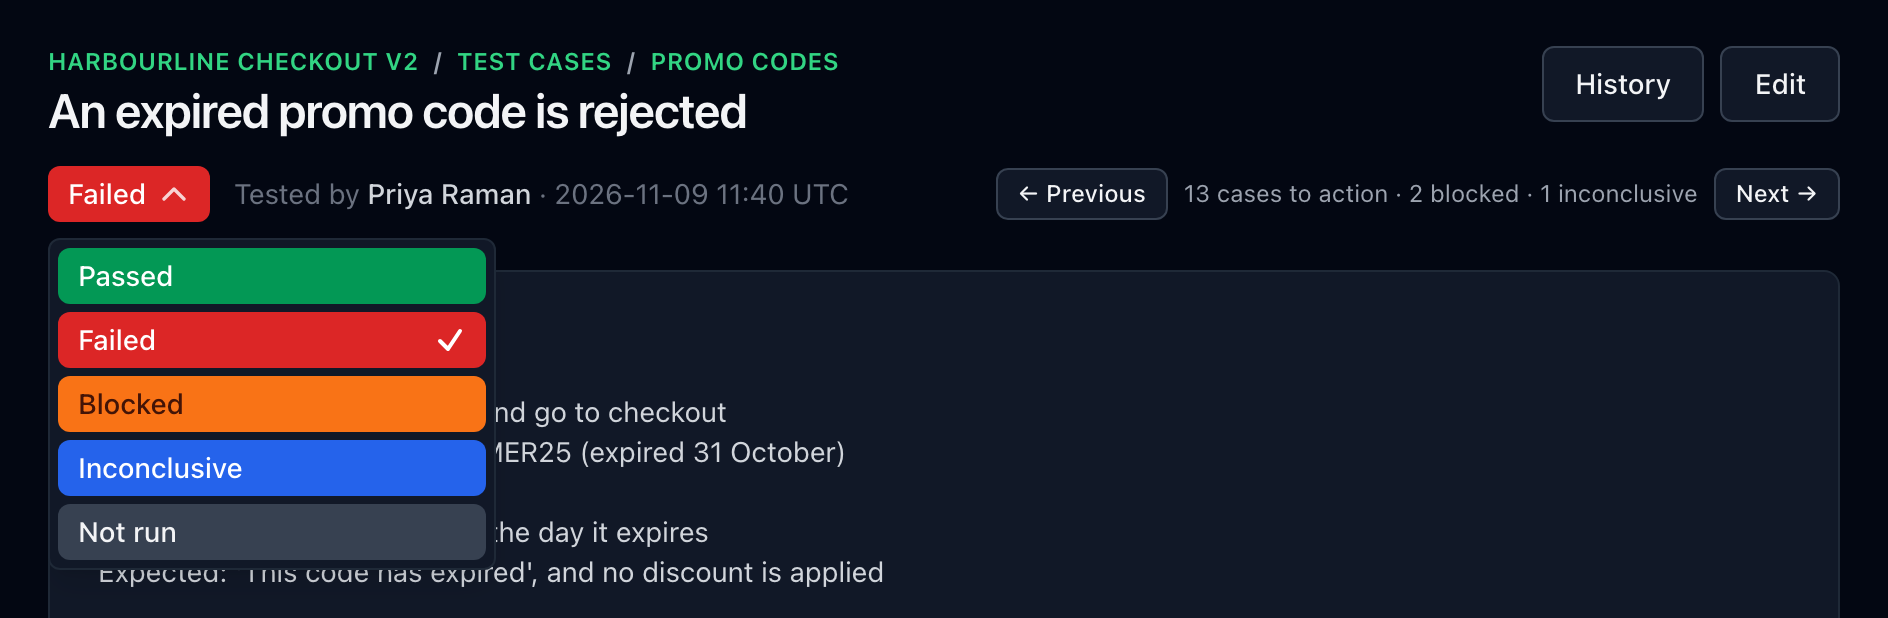
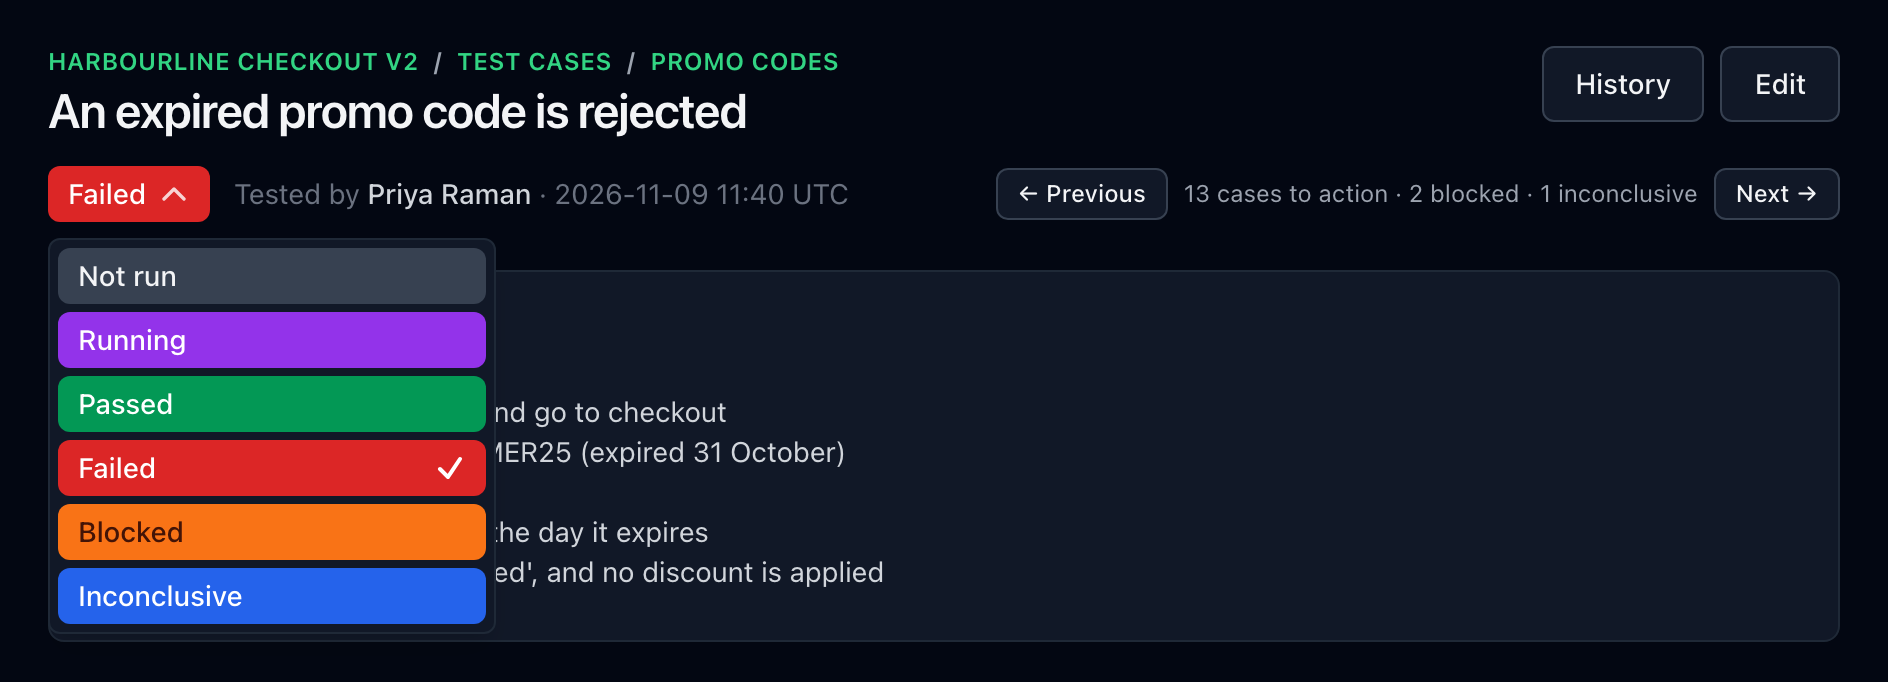
Added new "running" status to support multi-qa projects - appears in front of passed/failed when a test hasn't been ran. - when a test case is "running", it shows who is running it. - mark as passed/failed remain as options when a test case is "running"

diff --git a/src/QaTracker.Web/Styles/app.css b/src/QaTracker.Web/Styles/app.css
@@ -96,6 +96,11 @@
     @apply btn border border-transparent bg-red-600 text-white hover:bg-red-700 dark:text-white;
   }
 
+  /* The test case page's "Mark as running" quick button — the Running result's purple. */
+  .btn-purple {
+    @apply btn border border-transparent bg-purple-600 text-white hover:bg-purple-700 dark:text-white;
+  }
+
   /* Form footer set (FormActions.razor): Save = btn-primary (the only green fill), Cancel =
      btn-outline, Delete = btn-danger-outline (the only red). Same size, radius and type as .btn. */
   .btn-outline {
@@ -327,6 +332,10 @@
     @apply bg-orange-500 text-orange-950;
   }
 
+  .chip-purple {
+    @apply bg-purple-600 text-white;
+  }
+
   /* --- Side navigation ----------------------------------------------- */
   .nav-side {
     @apply flex items-center gap-2 rounded-md px-3 py-2 font-medium text-gray-600 no-underline
@@ -381,6 +390,7 @@
   .timeline-orange::before { @apply bg-orange-500; }
   .timeline-amber::before { @apply bg-amber-400; }
   .timeline-blue::before { @apply bg-blue-600; }
+  .timeline-purple::before { @apply bg-purple-600; }
 
   .timeline-when {
     @apply block text-xs text-gray-500 dark:text-gray-400;

diff --git a/src/QaTracker.Web/TestCases/TestCaseListFilter.cs b/src/QaTracker.Web/TestCases/TestCaseListFilter.cs
@@ -7,7 +7,7 @@ public enum TestCaseListFilter
     /// <summary>Every test case. The default.</summary>
     All = 0,
 
-    /// <summary>Still needs work: Not run, Failed or Blocked. Excludes Passed and Inconclusive
+    /// <summary>Still needs work: Not run, Running, Failed or Blocked. Excludes Passed and Inconclusive
     /// (the latter is waiting on business feedback rather than on testing).</summary>
     Outstanding = 1,
 
@@ -16,6 +16,7 @@ public enum TestCaseListFilter
     Blocked = 4,
     Inconclusive = 5,
     NotRun = 6,
+    Running = 7,
 }
 
 public static class TestCaseListFilters
@@ -25,6 +26,7 @@ public static class TestCaseListFilters
     [
         TestCaseListFilter.All,
         TestCaseListFilter.Outstanding,
+        TestCaseListFilter.Running,
         TestCaseListFilter.Passed,
         TestCaseListFilter.Failed,
         TestCaseListFilter.Blocked,
@@ -41,25 +43,27 @@ public static class TestCaseListFilters
         TestCaseListFilter.Blocked => TestCaseDisplay.ResultLabel(TestResult.Blocked),
         TestCaseListFilter.Inconclusive => TestCaseDisplay.ResultLabel(TestResult.Inconclusive),
         TestCaseListFilter.NotRun => TestCaseDisplay.ResultLabel(TestResult.NotRun),
+        TestCaseListFilter.Running => TestCaseDisplay.ResultLabel(TestResult.Running),
         _ => filter.ToString(),
     };
 
     /// <summary>A short hint shown beside the option, for the grouped filters.</summary>
     public static string? Hint(TestCaseListFilter filter) => filter switch
     {
-        TestCaseListFilter.Outstanding => "Not run, failed or blocked",
+        TestCaseListFilter.Outstanding => "Not run, running, failed or blocked",
         _ => null,
     };
 
     public static bool Matches(this TestCaseListFilter filter, TestResult result) => filter switch
     {
         TestCaseListFilter.All => true,
-        TestCaseListFilter.Outstanding => result is TestResult.NotRun or TestResult.Failed or TestResult.Blocked,
+        TestCaseListFilter.Outstanding => result is TestResult.NotRun or TestResult.Running or TestResult.Failed or TestResult.Blocked,
         TestCaseListFilter.Passed => result == TestResult.Passed,
         TestCaseListFilter.Failed => result == TestResult.Failed,
         TestCaseListFilter.Blocked => result == TestResult.Blocked,
         TestCaseListFilter.Inconclusive => result == TestResult.Inconclusive,
         TestCaseListFilter.NotRun => result == TestResult.NotRun,
+        TestCaseListFilter.Running => result == TestResult.Running,
         _ => true,
     };
 }

diff --git a/tests/QaTracker.E2ETests/TestCaseTests.cs b/tests/QaTracker.E2ETests/TestCaseTests.cs
@@ -128,4 +128,34 @@ public class TestCaseTests : E2ETestBase
         await Expect(Page).ToHaveURLAsync(oldUrl);
         await Expect(Page.GetByRole(AriaRole.Heading, new() { Name = scenario })).ToBeVisibleAsync();
     }
+
+    [Test]
+    public async Task Mark_as_running_comes_first_then_pass_or_fail_finishes_the_run()
+    {
+        var token = Guid.NewGuid().ToString("N")[..8];
+        var dashboardUrl = await CreateProjectAsync($"E2E running {token}");
+        var caseUrl = (await CreateScopeWithCasesAsync(dashboardUrl, $"Scope {token}", $"Run me {token}"))[0];
+        await Page.GotoAsync(caseUrl);
+
+        var result = Page.Locator("summary[aria-label='Change result']");
+        var quick = Page.Locator("form[action$='/result'] button.btn-sm");
+
+        // Not run: Mark as running first, then passed / failed.
+        await Expect(quick).ToHaveTextAsync(["Mark as running", "Mark as passed", "Mark as failed"]);
+        await Page.GetByRole(AriaRole.Button, new() { Name = "Mark as running" }).ClickAsync();
+        await Expect(result).ToContainTextAsync("Running");
+        await Expect(result).ToHaveClassAsync(new Regex("chip-purple"));
+        await Expect(Page.Locator("[data-tested-by]")).ToContainTextAsync("Being tested by");
+
+        // Running: the pass / fail buttons stay to finish it.
+        await Expect(quick).ToHaveTextAsync(["Mark as passed", "Mark as failed"]);
+        await Page.GetByRole(AriaRole.Button, new() { Name = "Mark as passed" }).ClickAsync();
+        await Expect(result).ToContainTextAsync("Passed");
+        await Expect(quick).ToHaveCountAsync(0);
+        await Expect(Page.Locator("[data-tested-by]")).ToContainTextAsync("Tested by");
+
+        // History tells it the same way.
+        await Page.GetByRole(AriaRole.Button, new() { Name = "History" }).ClickAsync();
+        await Expect(Page.Locator("dialog[open]")).ToContainTextAsync("started testing it");
+    }
 }

diff --git a/tests/QaTracker.UnitTests/TestCases/TestScopeServiceTests.cs b/tests/QaTracker.UnitTests/TestCases/TestScopeServiceTests.cs
@@ -172,6 +172,25 @@ public sealed class TestScopeServiceTests : IDisposable
     }
 
     [Fact]
+    public async Task Running_cases_are_counted_and_still_stepped_to()
+    {
+        var sut = CreateSut();
+        var cases = Cases();
+        var scope = await sut.CreateAsync(projectId, TestCaseKind.Functional, "Scope", "user-1");
+        var first = await cases.CreateAsync(scope.Id, new TestCaseInput("first", null), "user-1");
+        await cases.SetResultAsync(first.Id, TestResult.Passed);
+        time.Advance(TimeSpan.FromSeconds(1));
+        var running = await cases.CreateAsync(scope.Id, new TestCaseInput("running", null), "user-1");
+        await cases.SetResultAsync(running.Id, TestResult.Running, "user-1");
+
+        Assert.Equal(new TestPlanSummary(Scopes: 1, Cases: 2, Passed: 1, Failed: 0, NotRun: 0, Running: 1),
+            (await sut.SummariseProjectsAsync([projectId]))[projectId]);
+        var nav = await sut.GetRunNavigationAsync(projectId, first.Id);
+        Assert.Equal(running.Id, nav.Next?.Id);
+        Assert.Equal(1, nav.ToAction);
+    }
+
+    [Fact]
     public async Task UpdateAsync_changes_kind_and_name()
     {
         var sut = CreateSut();

diff --git a/tests/QaTracker.UnitTests/TestCases/TestCaseListFilterTests.cs b/tests/QaTracker.UnitTests/TestCases/TestCaseListFilterTests.cs
@@ -6,11 +6,12 @@ public sealed class TestCaseListFilterTests
 {
     [Theory]
     [InlineData(TestResult.NotRun, true)]
+    [InlineData(TestResult.Running, true)]
     [InlineData(TestResult.Failed, true)]
     [InlineData(TestResult.Blocked, true)]
     [InlineData(TestResult.Passed, false)]
     [InlineData(TestResult.Inconclusive, false)]
-    public void Outstanding_is_not_run_failed_or_blocked(TestResult result, bool expected) =>
+    public void Outstanding_is_not_run_running_failed_or_blocked(TestResult result, bool expected) =>
         Assert.Equal(expected, TestCaseListFilter.Outstanding.Matches(result));
 
     [Fact]
@@ -23,6 +24,7 @@ public sealed class TestCaseListFilterTests
     [InlineData(TestCaseListFilter.Blocked, TestResult.Blocked)]
     [InlineData(TestCaseListFilter.Inconclusive, TestResult.Inconclusive)]
     [InlineData(TestCaseListFilter.NotRun, TestResult.NotRun)]
+    [InlineData(TestCaseListFilter.Running, TestResult.Running)]
     public void A_single_result_filter_matches_only_that_result(TestCaseListFilter filter, TestResult only) =>
         Assert.All(Enum.GetValues<TestResult>(), r => Assert.Equal(r == only, filter.Matches(r)));
 

diff --git a/src/QaTracker.Web/TestCases/TestCaseDisplay.cs b/src/QaTracker.Web/TestCases/TestCaseDisplay.cs
@@ -13,6 +13,7 @@ public static class TestCaseDisplay
     public static string ResultLabel(TestResult result) => result switch
     {
         TestResult.NotRun => "Not run",
+        TestResult.Running => "Running",
         TestResult.Passed => "Passed",
         TestResult.Failed => "Failed",
         TestResult.Blocked => "Blocked",
@@ -23,6 +24,7 @@ public static class TestCaseDisplay
     public static string ResultBadgeClass(TestResult result) => result switch
     {
         TestResult.NotRun => "badge badge-gray",
+        TestResult.Running => "badge badge-purple",
         TestResult.Passed => "badge badge-brand",
         TestResult.Failed => "badge badge-red",
         TestResult.Blocked => "badge badge-orange",
@@ -34,6 +36,7 @@ public static class TestCaseDisplay
     public static string ResultChipClass(TestResult result) => result switch
     {
         TestResult.NotRun => "chip chip-gray",
+        TestResult.Running => "chip chip-purple",
         TestResult.Passed => "chip chip-brand",
         TestResult.Failed => "chip chip-red",
         TestResult.Blocked => "chip chip-orange",

diff --git a/src/QaTracker.Web/TestCases/TestScopeService.cs b/src/QaTracker.Web/TestCases/TestScopeService.cs
@@ -7,7 +7,7 @@ namespace QaTracker.Web.TestCases;
 
 /// <summary>Roll-up of a project's test plan for the dashboard.</summary>
 public sealed record TestPlanSummary(
-    int Scopes, int Cases, int Passed, int Failed, int NotRun, int Blocked = 0, int Inconclusive = 0);
+    int Scopes, int Cases, int Passed, int Failed, int NotRun, int Blocked = 0, int Inconclusive = 0, int Running = 0);
 
 /// <summary>
 /// Previous / next not-yet-passed cases around a test case, for stepping through a test run —
@@ -244,7 +244,8 @@ public sealed class TestScopeService(
                 Failed: Count(TestResult.Failed),
                 NotRun: Count(TestResult.NotRun),
                 Blocked: Count(TestResult.Blocked),
-                Inconclusive: Count(TestResult.Inconclusive));
+                Inconclusive: Count(TestResult.Inconclusive),
+                Running: Count(TestResult.Running));
         });
     }
 

diff --git a/src/QaTracker.Web/TestCases/TestResult.cs b/src/QaTracker.Web/TestCases/TestResult.cs
@@ -12,4 +12,8 @@ public enum TestResult
 
     /// <summary>Ran, but the behaviour raises questions that need business feedback — neither a pass nor a fail. Skipped by test-run navigation.</summary>
     Inconclusive = 4,
+
+    /// <summary>Being tested right now — started, not yet passed or failed. Still to action, so test-run
+    /// navigation steps to it.</summary>
+    Running = 5,
 }

diff --git a/docs/user-guide.md b/docs/user-guide.md
@@ -106,25 +106,28 @@ Open a test case to see its steps, then set the result from the menu under its n
 
 | Result | Use it when |
 |---|---|
+| **Not run** | Not tested yet — or back to the start |
+| **Running** | You've started testing it — the rest of the team can see it's in hand |
 | **Passed** / **Failed** | The case ran, and it worked or it didn't |
 | **Blocked** | Something else is stopping it from running (an environment, another feature) |
 | **Inconclusive** | It ran, but the behaviour needs a decision from the business |
-| **Not run** | Back to the start |
 
-QA Tracker records who set the result and when. **Previous** and **Next** step through the
+A case that hasn't been run yet also has quick **Mark as running**, **Mark as passed** and
+**Mark as failed** buttons beside the menu; once it's running, the pass and fail buttons stay to
+finish it. QA Tracker records who set the result and when. **Previous** and **Next** step through the
 cases still to do, so you can run the plan without going back to the list. On the plan
 itself, **Pass** and **Fail** work straight from each row.
 
 ![A failed test case: steps, a reference file, the linked defect, and a comment with an @mention and a thumbs up](screenshots/test-case.png)
 
-![The result menu open on a test case: Passed, Failed, Blocked, Inconclusive, Not run](screenshots/result-menu.png)
+![The result menu open on a test case: Not run, Running, Passed, Failed, Blocked, Inconclusive](screenshots/result-menu.png)
 
 ### Find what's left
 
-The filter at the top of the plan narrows it to **Outstanding** cases (not run, failed or
-blocked) or to one result. Your choice is remembered for every project.
+The filter at the top of the plan narrows it to **Outstanding** cases (not run, running, failed
+or blocked) or to one result. Your choice is remembered for every project.
 
-![The test case filter: All, Outstanding, Passed, Failed, Blocked, Inconclusive, Not run](screenshots/test-case-filter.png)
+![The test case filter: All, Outstanding, Running, Passed, Failed, Blocked, Inconclusive, Not run](screenshots/test-case-filter.png)
 
 Switch to **Collapsed** to see one row per scope with a coloured progress bar, which is
 handy for a daily stand-up.

diff --git a/docs/features.md b/docs/features.md
@@ -43,8 +43,8 @@ screenshots, see the [user guide](user-guide.md).
   and drop or with arrow buttons.
 - A test case has a scenario and steps, and can move to another scope without losing its
   results, comments, files or defect links.
-- **Results:** *Not run*, *Passed*, *Failed*, *Blocked* (can't be run yet) and
-  *Inconclusive* (needs a business decision), set from the test case page or with
+- **Results:** *Not run*, *Running* (being tested now), *Passed*, *Failed*, *Blocked* (can't be
+  run yet) and *Inconclusive* (needs a business decision), set from the test case page or with
   Pass / Fail / Reset on the plan. Each result records who set it and when.
 - **Live updates:** on a test case page and the plan / scope pages (and the defect pages, below),
   setting results, commenting, reacting and linking happen in place, with no reload or jump back
@@ -52,7 +52,7 @@ screenshots, see the [user guide](user-guide.md).
   comments appear on their own within a few seconds.
 - **Previous / Next** step through the cases still to run, skipping blocked and
   inconclusive ones, with counts.
-- **Filter** the plan to all cases, outstanding cases (not run, failed or blocked) or
+- **Filter** the plan to all cases, outstanding cases (not run, running, failed or blocked) or
   one result. Switch between **Expanded** and **Collapsed** layouts; collapsed shows one row
   per scope with its counts and a progress bar. Both choices are remembered across
   projects.
